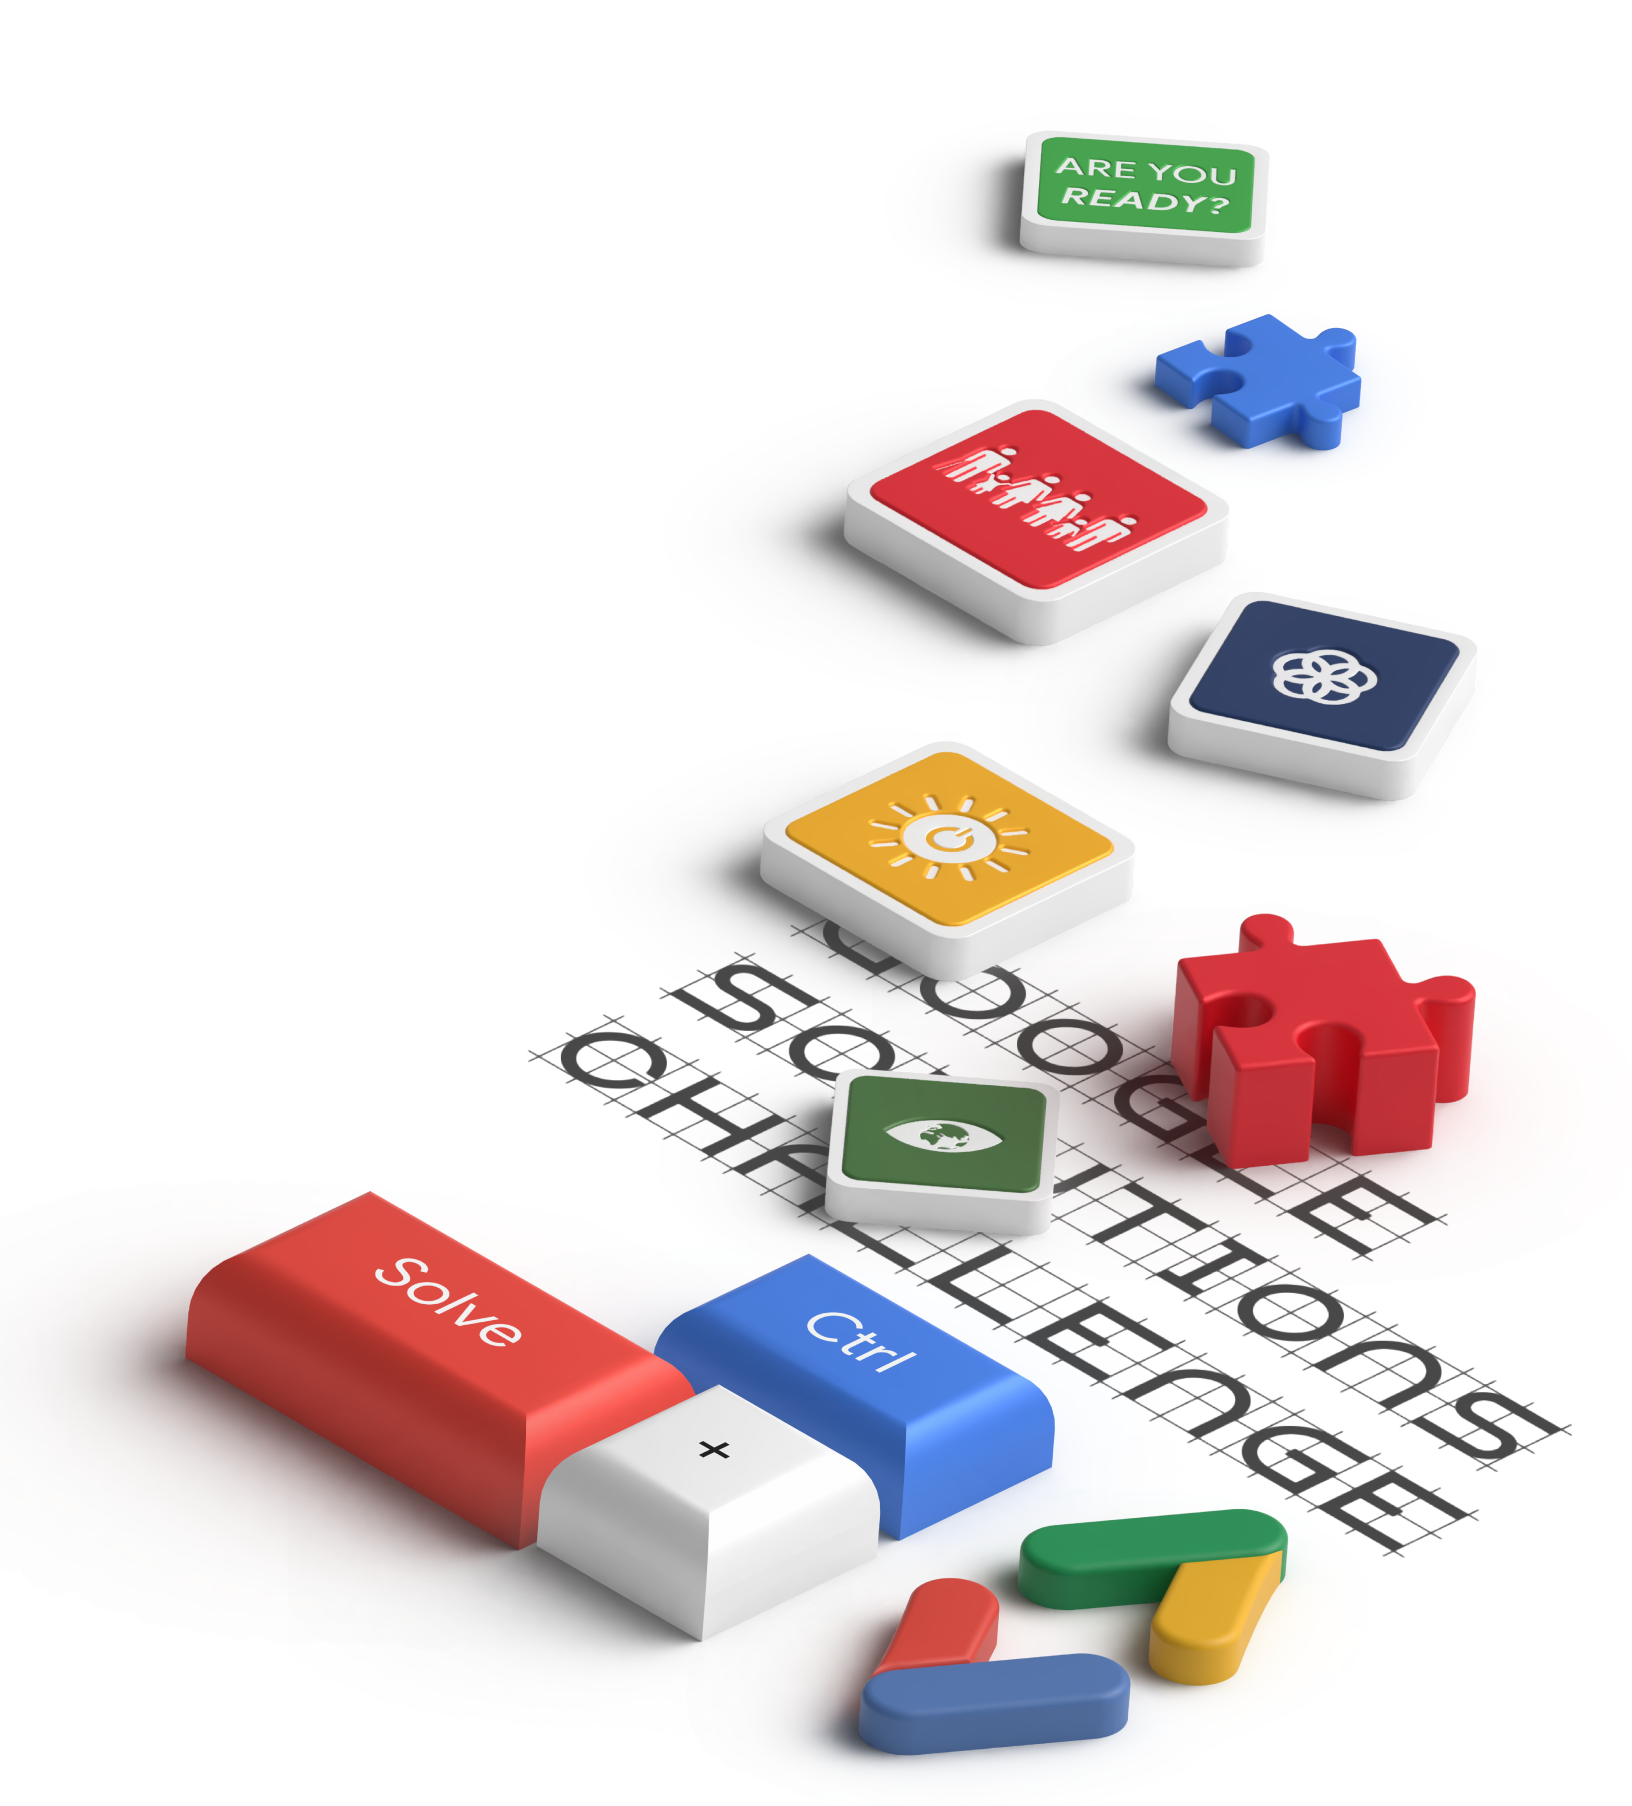
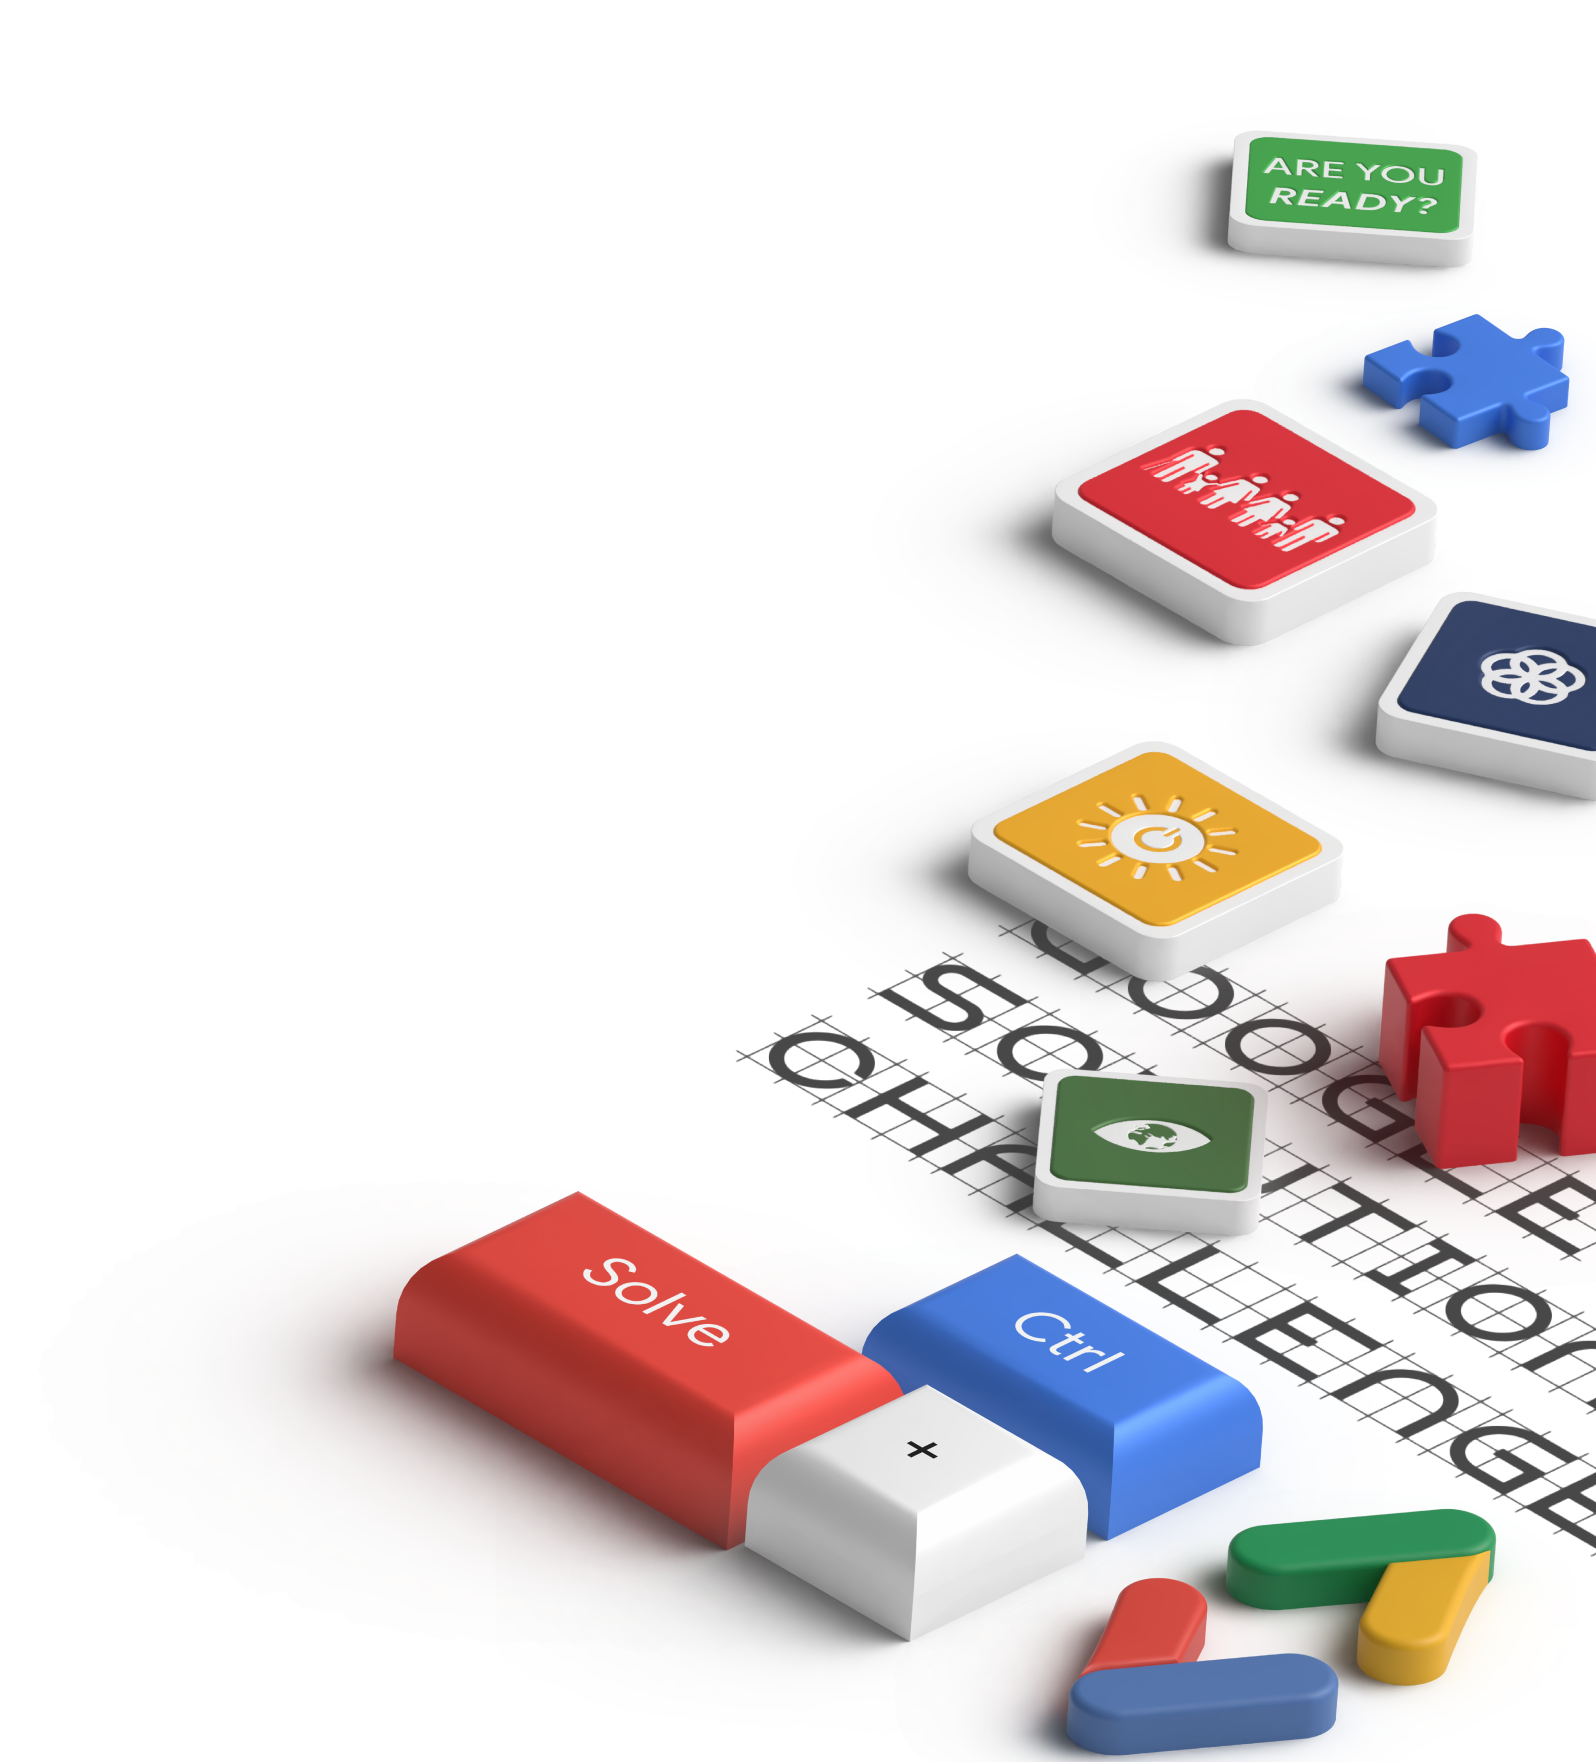
feat: main design layout

diff --git a/src/pages/index.tsx b/src/pages/index.tsx
@@ -5,6 +5,7 @@ import localFont from "next/font/local";
 import Button from "@/components/Button";
 import Input from "@/components/Input";
 import { toast } from "sonner";
+import Image from "next/image";
 
 import { db } from "@/config/firebase";
 
@@ -53,8 +54,19 @@ export default function Home() {
 
   return (
     <section className="min-h-screen py-10 lg:py-20 relative font-google-reg pb-40">
-      <div className="glassmorph min-h-fit z-30 relative w-[90%] px-7 md:w-3/4 mx-auto">
+      <div className="glassmorph min-h-fit z-30 relative w-[90%] px-7 md:w-3/4 lg:w-2/3 mx-auto">
         <div className="gap-5 flex flex-col items-center pt-28 pb-56">
+          <Image
+            src="/images/main-logo.svg"
+            width={300}
+            height={200}
+            alt="3D SDGs"
+            priority
+          />
+
+          <p className="text-center text-2xl mt-4 mb-14">
+            An Introduction to Google Solutions Challenge
+          </p>
           <form
             onSubmit={handleLocate}
             className="flex flex-col gap-2 mt-8 w-full sm:max-w-[400px] max-w-[350px] text-black"

diff --git a/src/components/Layout.tsx b/src/components/Layout.tsx
@@ -1,5 +1,5 @@
 import { ReactNode } from "react";
-// import Image from "next/image";
+import Image from "next/image";
 // import bg from "@/images/bg.jpg";
 // import Footer from "./Footer";
 
@@ -21,6 +21,24 @@ export default function Layout({
         priority
         className="pointer-events-none object-cover absolute h-full top-0 left-0 z-10 opacity-50"
       /> */}
+
+      <Image
+        src="/images/stack1.png"
+        width={440}
+        height={860}
+        alt="3D SDGs"
+        priority
+        className="pointer-events-none absolute top-0 -left-28 z-10 object-cover hidden lg:block"
+      />
+
+      <Image
+        src="/images/stack2.png"
+        width={740}
+        height={1160}
+        alt="3D SDGs"
+        priority
+        className="pointer-events-none absolute bottom-0 right-0 z-10 object-cover"
+      />
 
       {/* <Footer /> */}
     </main>
